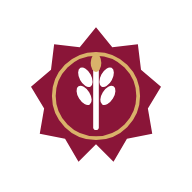
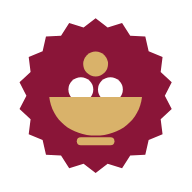
شعار جديد لـ«أثر»: حرف «ث» وعاءً للعطاء ونقاطه الثلاث عطايا داخله
- الختم المسنّن بلون قطر كما في حواف الموقع، والوعاء والنقطة العليا بالذهبي
- الشعار في الرأس والتذييل وختم شهادة الشكر
- أيقونات التطبيق (192 و512 والقابلة للقص) وأيقونة تبويب المتصفح favicon.svg

Claude-Session: https://claude.ai/code/session_01Djyuo9gbdMkdNx2KRdsMwP

diff --git a/site/index.html b/site/index.html
@@ -13,6 +13,7 @@ window.sbLoadFont=function(l){if(!F[l])return;var id='font-'+F[l].split(':')[0];
 sbLoadFont(l);})();</script>
 <meta name="theme-color" content="#8A1538">
 <link rel="manifest" href="manifest.webmanifest">
+<link rel="icon" href="favicon.svg" type="image/svg+xml">
 <link rel="apple-touch-icon" href="icon-192.png">
 <meta name="apple-mobile-web-app-capable" content="yes">
 <meta name="mobile-web-app-capable" content="yes">
@@ -709,12 +710,12 @@ html[dir="ltr"] .subtabs button:hover { transform: translateX(2px); }
   <symbol id="i-moon" viewBox="0 0 24 24"><path d="M20 14.5A8 8 0 0 1 9.5 4a8 8 0 1 0 10.5 10.5z" fill="none" stroke="currentColor" stroke-width="1.8" stroke-linejoin="round"/></symbol>
   <symbol id="i-gift" viewBox="0 0 24 24"><g fill="none" stroke="currentColor" stroke-width="1.8" stroke-linecap="round" stroke-linejoin="round"><path d="M20 12v9H4v-9"/><path d="M2 7h20v5H2z"/><path d="M12 21V7"/><path d="M12 7H7.5a2.5 2.5 0 1 1 0-5C11 2 12 7 12 7z"/><path d="M12 7h4.5a2.5 2.5 0 1 0 0-5C13 2 12 7 12 7z"/></g></symbol>
   <symbol id="logo" viewBox="0 0 48 48">
-    <path d="M24 2l5.2 6.4 8.2-1 1 8.2L44.8 21 40.6 28l1.4 8.1-8.1 1.6L29.6 45 24 39.4 18.4 45l-4.3-7.3L6 36.1 7.4 28 3.2 21l6.4-5.4 1-8.2 8.2 1z" fill="#8A1538"/>
-    <circle cx="24" cy="24" r="13.5" fill="none" stroke="#D9B26A" stroke-width="1.2"/>
-    <g fill="#FFFFFF"><path d="M24 34V16" stroke="#FFFFFF" stroke-width="1.8" stroke-linecap="round"/>
-      <ellipse cx="20.6" cy="18" rx="1.9" ry="3.4" transform="rotate(-28 20.6 18)"/><ellipse cx="27.4" cy="18" rx="1.9" ry="3.4" transform="rotate(28 27.4 18)"/>
-      <ellipse cx="20.2" cy="23.8" rx="1.9" ry="3.4" transform="rotate(-32 20.2 23.8)"/><ellipse cx="27.8" cy="23.8" rx="1.9" ry="3.4" transform="rotate(32 27.8 23.8)"/>
-      <ellipse cx="24" cy="13.4" rx="1.7" ry="2.9" fill="#D9B26A"/></g>
+    <!-- «ث»: a giving bowl with three dots, the heart of «أثر»; serrated edge like the flag -->
+    <path d="M24.00 1.00 L27.58 3.71 L31.87 2.39 L34.30 6.16 L38.78 6.38 L39.78 10.76 L43.92 12.50 L43.36 16.95 L46.65 20.01 L44.60 24.00 L46.65 27.99 L43.36 31.05 L43.92 35.50 L39.78 37.24 L38.78 41.62 L34.30 41.84 L31.87 45.61 L27.58 44.29 L24.00 47.00 L20.42 44.29 L16.13 45.61 L13.70 41.84 L9.22 41.62 L8.22 37.24 L4.08 35.50 L4.64 31.05 L1.35 27.99 L3.40 24.00 L1.35 20.01 L4.64 16.95 L4.08 12.50 L8.22 10.76 L9.22 6.38 L13.70 6.16 L16.13 2.39 L20.42 3.71z" fill="#8A1538"/>
+  <circle cx="19.6" cy="22.2" r="3.7" fill="#FFFFFF"/><circle cx="28.4" cy="22.2" r="3.7" fill="#FFFFFF"/>
+  <circle cx="24" cy="14.6" r="3.7" fill="#D9B26A"/>
+  <path d="M10.2 24.4h27.6c-.8 6.9-6.6 11.5-13.8 11.5s-13-4.6-13.8-11.5z" fill="#D9B26A"/>
+  <path d="M19.6 37.6h8.8" stroke="#D9B26A" stroke-width="2.4" stroke-linecap="round"/>
   </symbol>
 </svg>
 
@@ -3080,13 +3081,14 @@ function drawCert(cv, name, n, delivered) {
   g.fillStyle = '#8A1538';
   for (let x = 40; x < W - 40; x += 36) { g.beginPath(); g.moveTo(x, 40); g.lineTo(x + 18, 64); g.lineTo(x + 36, 40); g.fill(); g.beginPath(); g.moveTo(x, H - 40); g.lineTo(x + 18, H - 64); g.lineTo(x + 36, H - 40); g.fill(); }
   g.strokeStyle = '#C9A15A'; g.lineWidth = 3; g.strokeRect(84, 96, W - 168, H - 192); g.lineWidth = 1; g.strokeRect(96, 108, W - 192, H - 216);
-  // seal
-  const sx = W / 2, sy = 200;
-  g.fillStyle = '#8A1538'; g.beginPath(); g.arc(sx, sy, 58, 0, Math.PI * 2); g.fill();
-  g.strokeStyle = '#D9B26A'; g.lineWidth = 3; g.beginPath(); g.arc(sx, sy, 48, 0, Math.PI * 2); g.stroke();
-  g.strokeStyle = '#FFFFFF'; g.lineWidth = 4; g.beginPath(); g.moveTo(sx, sy + 32); g.lineTo(sx, sy - 22); g.stroke();
-  g.fillStyle = '#FFFFFF'; [[-9, -14, -0.5], [9, -14, 0.5], [-10, 2, -0.55], [10, 2, 0.55], [-10, 18, -0.6], [10, 18, 0.6]].forEach(([dx, dy, r]) => { g.save(); g.translate(sx + dx, sy + dy); g.rotate(r); g.beginPath(); g.ellipse(0, 0, 5, 10, 0, 0, Math.PI * 2); g.fill(); g.restore(); });
-  g.fillStyle = '#D9B26A'; g.beginPath(); g.ellipse(sx, sy - 30, 4.5, 8, 0, 0, Math.PI * 2); g.fill();
+  // seal: the site logo drawn at 2.6x
+  const sx = W / 2, sy = 200, k = 2.6;
+  g.save(); g.translate(sx - 24 * k, sy - 24 * k); g.scale(k, k);
+  g.fillStyle = '#8A1538'; g.fill(new Path2D('M24.00 1.00 L27.58 3.71 L31.87 2.39 L34.30 6.16 L38.78 6.38 L39.78 10.76 L43.92 12.50 L43.36 16.95 L46.65 20.01 L44.60 24.00 L46.65 27.99 L43.36 31.05 L43.92 35.50 L39.78 37.24 L38.78 41.62 L34.30 41.84 L31.87 45.61 L27.58 44.29 L24.00 47.00 L20.42 44.29 L16.13 45.61 L13.70 41.84 L9.22 41.62 L8.22 37.24 L4.08 35.50 L4.64 31.05 L1.35 27.99 L3.40 24.00 L1.35 20.01 L4.64 16.95 L4.08 12.50 L8.22 10.76 L9.22 6.38 L13.70 6.16 L16.13 2.39 L20.42 3.71z'));
+  [[19.6, 22.2, '#FFFFFF'], [28.4, 22.2, '#FFFFFF'], [24, 14.6, '#D9B26A']].forEach(([x, y, c]) => { g.fillStyle = c; g.beginPath(); g.arc(x, y, 3.7, 0, Math.PI * 2); g.fill(); });
+  g.fillStyle = '#D9B26A'; g.fill(new Path2D('M10.2 24.4h27.6c-.8 6.9-6.6 11.5-13.8 11.5s-13-4.6-13.8-11.5z'));
+  g.strokeStyle = '#D9B26A'; g.lineWidth = 2.4; g.lineCap = 'round'; g.beginPath(); g.moveTo(19.6, 37.6); g.lineTo(28.4, 37.6); g.stroke();
+  g.restore(); g.lineCap = 'butt';
   g.textAlign = 'center'; g.direction = rtl ? 'rtl' : 'ltr';
   g.fillStyle = '#8A1538'; g.font = `800 70px ${disp}`; g.fillText(t('شهادة شكر وتقدير'), W / 2, 345);
   g.fillStyle = '#4A3A40'; g.font = `400 34px ${body}`; g.fillText(t('تتقدّم منصة «أثر» بخالص الشكر والتقدير إلى'), W / 2, 430);

diff --git a/site/sw.js b/site/sw.js
@@ -1,6 +1,6 @@
 /* أثر: يحفظ ملفات الموقع ليفتح دون اتصال. الخطوط تُحفظ عند أول تحميل لها. */
-const CACHE = 'share-blessings-v21';
-const SHELL = ['./', './index.html', './manifest.webmanifest', './icon-192.png', './icon-512.png', './icon-maskable-512.png', './config.js'];
+const CACHE = 'share-blessings-v22';
+const SHELL = ['./', './index.html', './manifest.webmanifest', './favicon.svg', './icon-192.png', './icon-512.png', './icon-maskable-512.png', './config.js'];
 
 self.addEventListener('install', e => {
   e.waitUntil(caches.open(CACHE).then(c => c.addAll(SHELL)).then(() => self.skipWaiting()));
